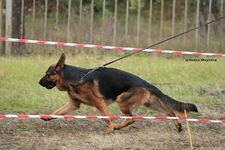
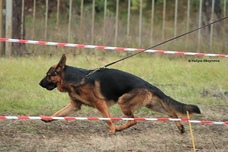
Fix photos once again

diff --git a/_shows/2019.htm b/_shows/2019.htm
@@ -8,8 +8,8 @@ photo: # temporary
     <p style="text-align: left"><strong>Фонте Фиделити Итан</strong>, класс рабочих собак, 1 отлично, выражено, не отпускает, КЧК!</p>
     <p style="text-align: left"><strong>Фонте Фиделити Пальмира</strong>, класс юниоров, 4 очень хорошо.</p>
     <p>
-        {% include photo.html path="2019/10194" title="Фонте Фиделити Пальмира, г. Димитровград, 19 октября 2019 г." w="225" h="152" %}
         {% include photo.html path="2019/10195" title="Фонте Фиделити Пальмира, г. Димитровград, 19 октября 2019 г." w="100" h="152" %}
+        {% include photo.html path="2019/10196" title="Фонте Фиделити Пальмира, г. Димитровград, 19 октября 2019 г." w="225" h="152" %}
         {% include photo.html path="2019/10193" title="Фонте Фиделити Итан, г. Димитровград, 19 октября 2019 г." w="225" h="152" %}
         {% include photo.html path="2019/10194" title="Фонте Фиделити Итан, г. Димитровград, 19 октября 2019 г." w="225" h="152" %}
         {% include photo.html path="2019/10191" title="Фонте Фиделити Итан и Пальмира, г. Димитровград, 19 октября 2019 г." w="249" h="152" %}
